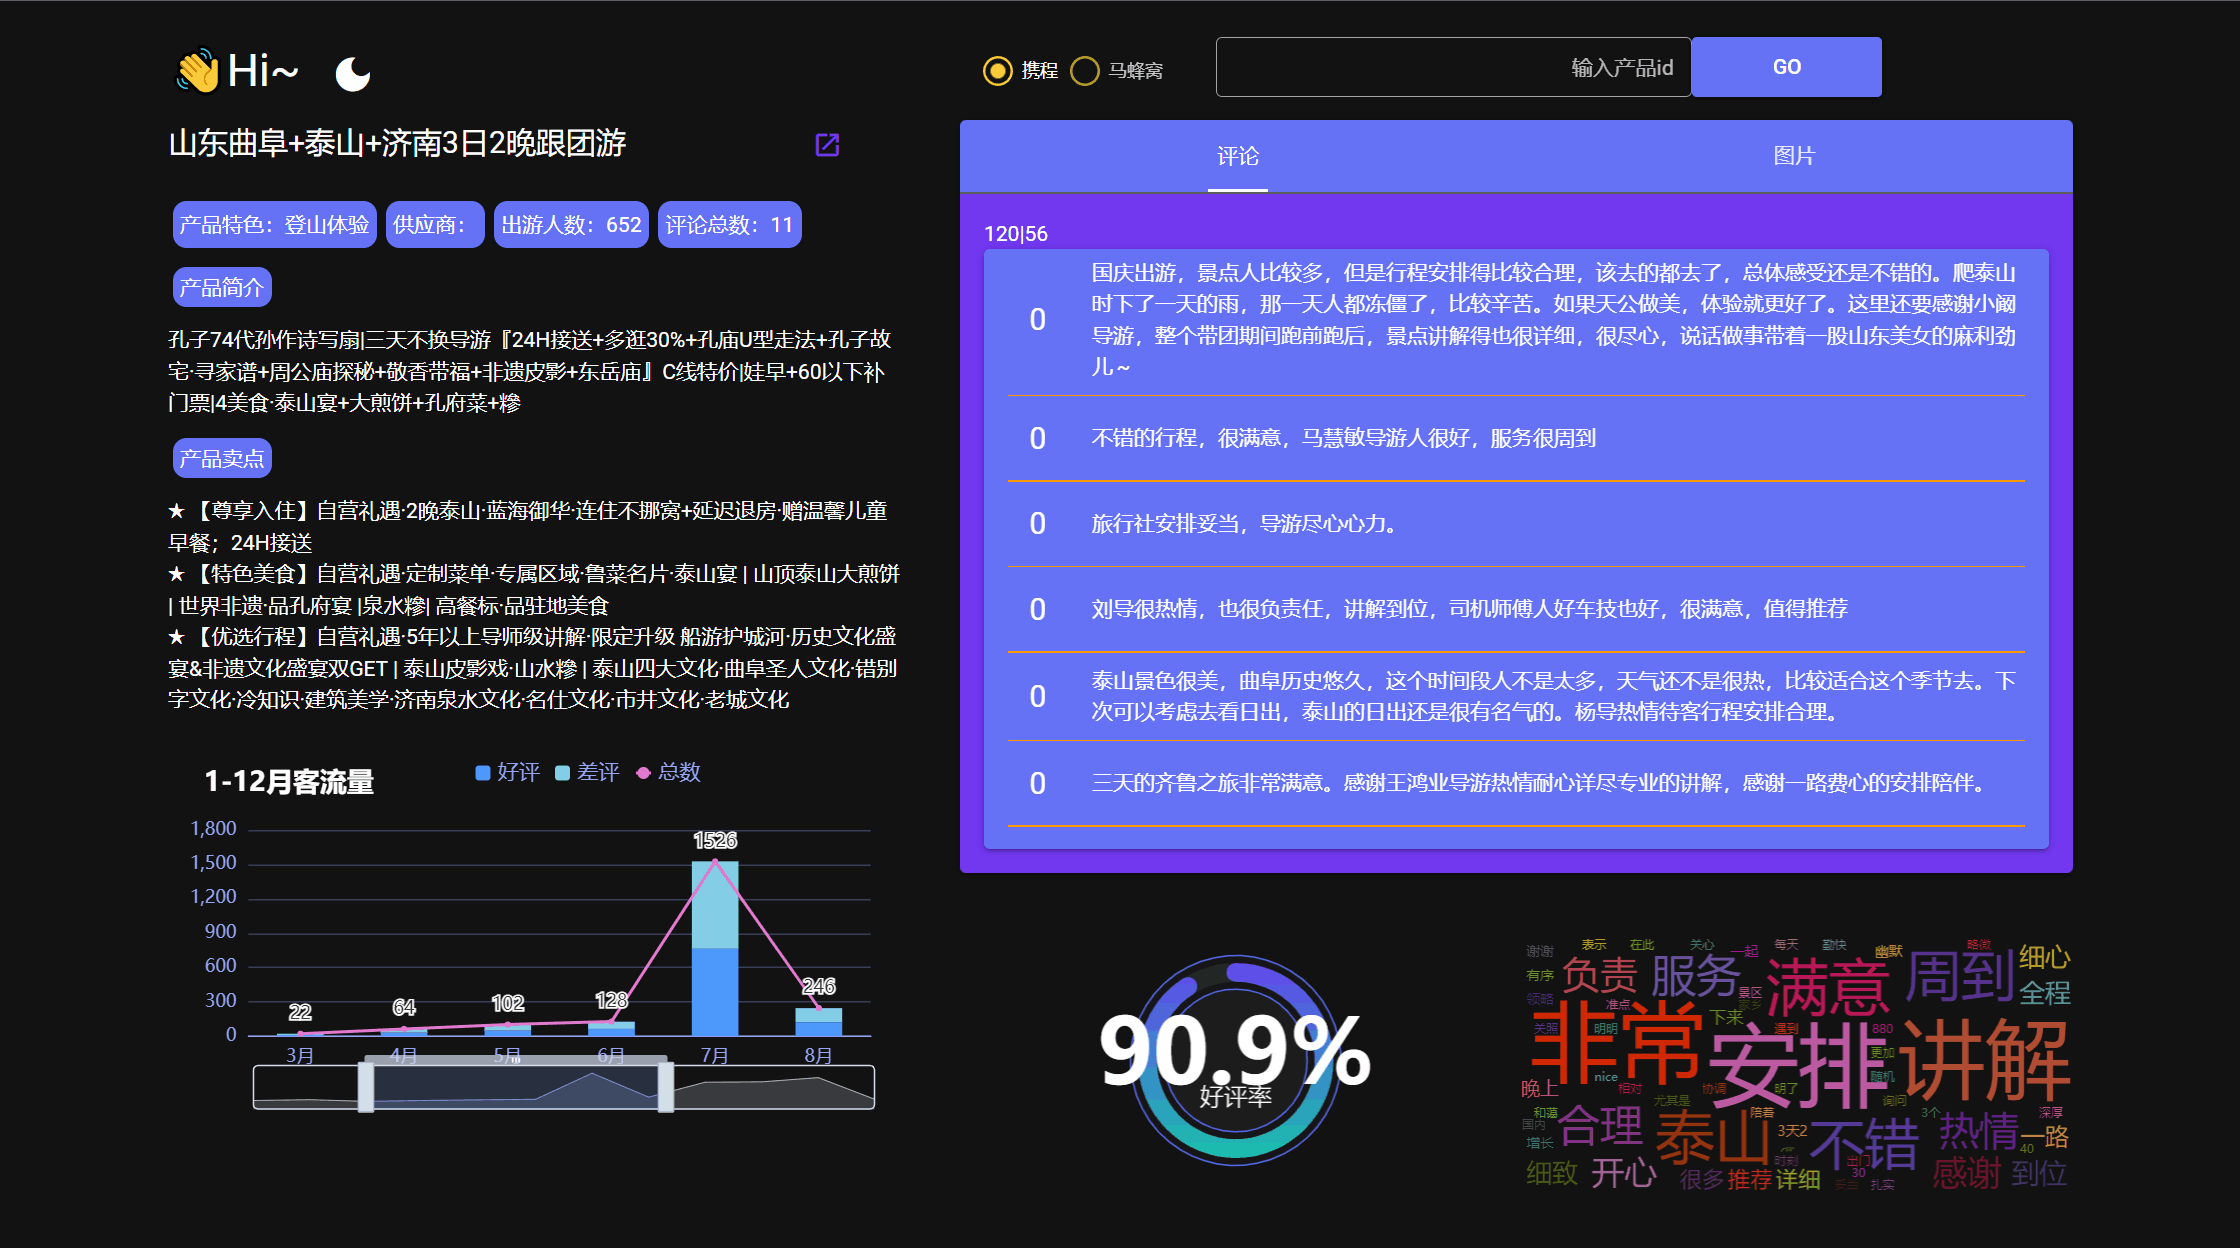
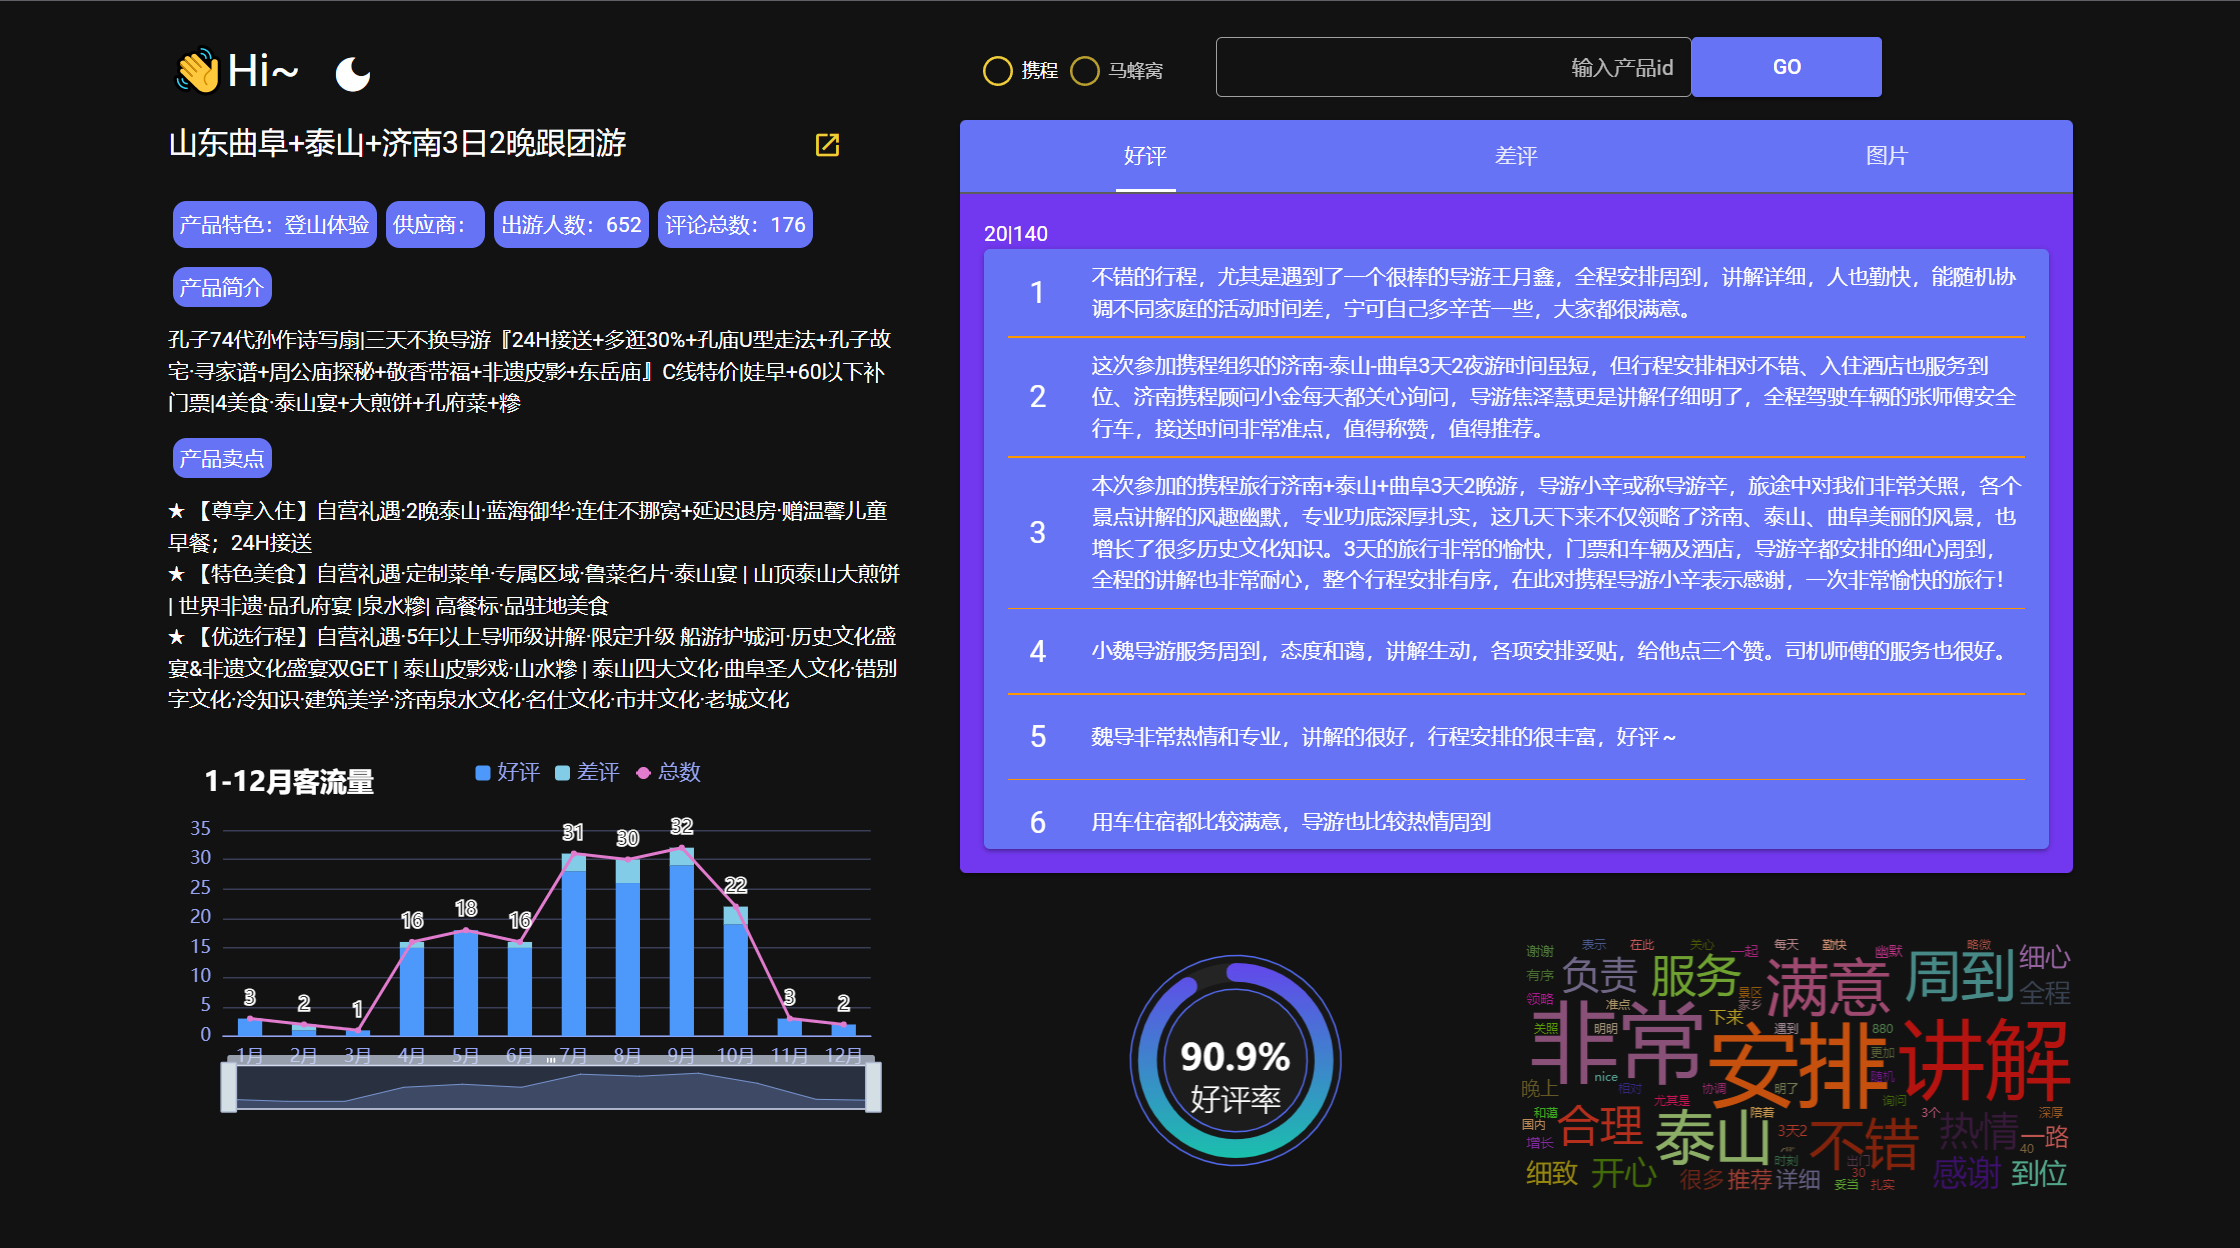
完成条形图api对接 毕设完成🎉

diff --git a/main/review_spyder/views.py b/main/review_spyder/views.py
@@ -98,7 +98,6 @@ def WordCloud(request):
         pid = postdata.get('pid')  # 产品id
         if site == 'ctrip':
             if len(pid) != 0:
-                # totalnum = xc.xc_spyder(pid)
                 reviewlist = []
                 for i in Original_Comments.objects.all().filter(productID=pid).values():
                     reviewlist.append(i['comment_content'])
@@ -120,5 +119,32 @@ def WordCloud(request):
         return HttpResponse('method is NotAllowd! x_x!')
 
 
-# 返回pie数据
+# 月份分类
+def bartool(data):
+    list = [0 for i in range(12)]
+    for i in data:
+        list[int(i[5:7]) // 1 - 1] += 1  # 月份除1再-1确定元素位置 从0开始+1
+    return list
 
+
+def bar(request):
+    if request.method == 'POST':
+        postdata = json.loads(request.body)
+        site = postdata.get('type')  # 网站类型：携程|马蜂窝
+        pid = postdata.get('pid')  # 产品id
+        if site == 'ctrip':
+            if len(pid) != 0:
+                data = Original_Comments.objects.all().filter(productID=pid).values()
+                good = []
+                bad = []
+                for i in data:
+                    if i['tokScore'] == '0':
+                        good.append(i['trip_time'])
+                    elif i['tokScore'] == '1':
+                        bad.append(i['trip_time'])
+                gooddata = bartool(good)
+                baddata = bartool(bad)
+                return JsonResponse({'good': gooddata, 'bad': baddata})
+    else:
+        return HttpResponse('method is NotAllowd! x_x!')
+# 返回pie数据

diff --git a/main/review_spyder/urls.py b/main/review_spyder/urls.py
@@ -9,5 +9,6 @@ urlpatterns = [
     path('getReview/', views.getreview),
     path('sentiments1/', views.api1),
     path('getWordCloud/', views.WordCloud),
+    path('getbar/', views.bar),
     path('test/', views.test)
 ]
